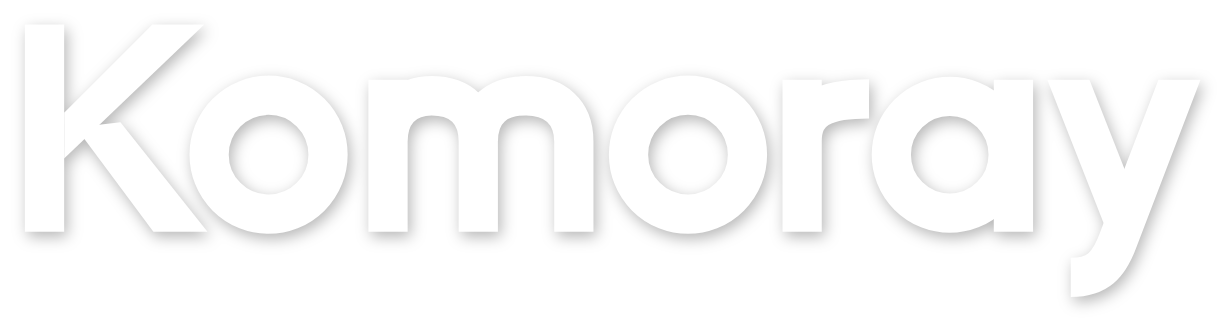
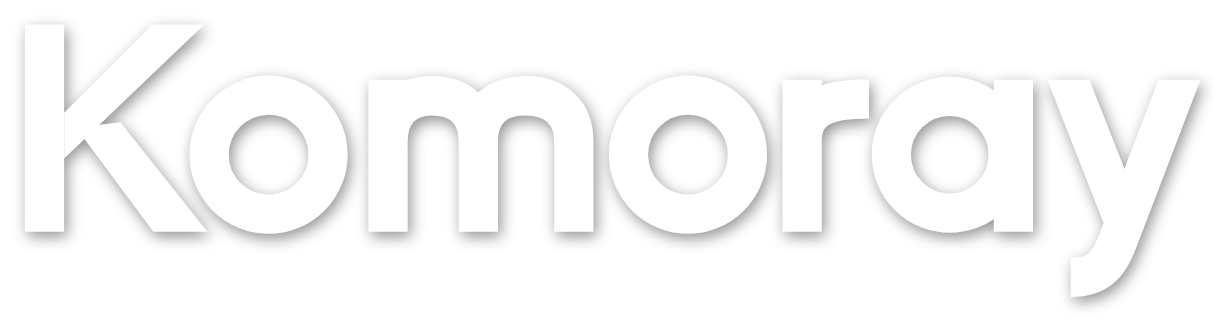
Watermark: 15% bigger again and a bit more shadow (15% once faded) (coach 18 Nov)
Width 20.6% -> 23.7% of the shorter side (the word ~245 px on 1080). The picture made again from the plain word
(fe2aade) with the shadow at 0.15 / 0.35, so it isn't doubled. Rev "d".

diff --git a/src/lib/watermark.ts b/src/lib/watermark.ts
@@ -7,10 +7,10 @@
 export const WATERMARK = {
 	// Change it whenever the watermark looks different (picture, size, place, timing): it is in the video's fingerprint
 	// (api/render), so a watermarked video is made again instead of handing back one with the old watermark.
-	rev: "2026-11-18c", // b: 35% with a shadow · c: 10% bigger, drifts slowly, fades between corners
-	file: "/watermark.png", // the word with a thin shadow baked in (10% once faded, coach 18 Nov), 1225 x 321 px
+	rev: "2026-11-18d", // b: 35% with a shadow · c: 10% bigger, drifts slowly, fades between corners · d: 15% bigger again, shadow 15%
+	file: "/watermark.png", // the word with a thin shadow baked in (15% once faded, coach 18 Nov), 1225 x 321 px
 	opacity: 0.35, // coach 18 Nov: 30% was too faint on a white background
-	width: 0.206, // of the frame's shorter side: 222 px on a 1080 px side, the word itself ~213 px (coach 18 Nov: 10% bigger)
+	width: 0.237, // of the frame's shorter side: 256 px on a 1080 px side, the word itself ~245 px (coach 18 Nov: +10%, then +15%)
 	margin: 0.08, // from both edges of its corner, of the shorter side: 86 px (the Brand Kit logo sits 40 px in)
 	every: 8, // seconds in one corner before it moves
 	// Coach 18 Nov: drift slowly in a small loop, like a screensaver, and fade out and back in at the next corner.

diff --git a/modal_app/render.py b/modal_app/render.py
@@ -172,10 +172,10 @@ LOGO = {"size": 52, "outline": 4, "side": 40, "top": 40}  # the channel name or 
 LOGO_LAYER = 100
 
 # The Free plan's watermark (WATERMARK in src/lib/watermark.ts, coach 18 Nov): the white word Komoray at 35% with a thin
-# shadow baked into public/watermark.png (10% once faded), its width
+# shadow baked into public/watermark.png (15% once faded), its width
 # and its distance from the edges a share of the frame's shorter side, in a corner picked from the video's id every
 # `every` seconds. Over everything, the logo too, as the preview draws it last.
-WATERMARK = {"opacity": 0.35, "width": 0.206, "margin": 0.08, "every": 8, "fade": 0.6, "drift": 0.015, "driftX": 7, "driftY": 9}
+WATERMARK = {"opacity": 0.35, "width": 0.237, "margin": 0.08, "every": 8, "fade": 0.6, "drift": 0.015, "driftX": 7, "driftY": 9}
 MASK32 = 0xFFFFFFFF
 
 
